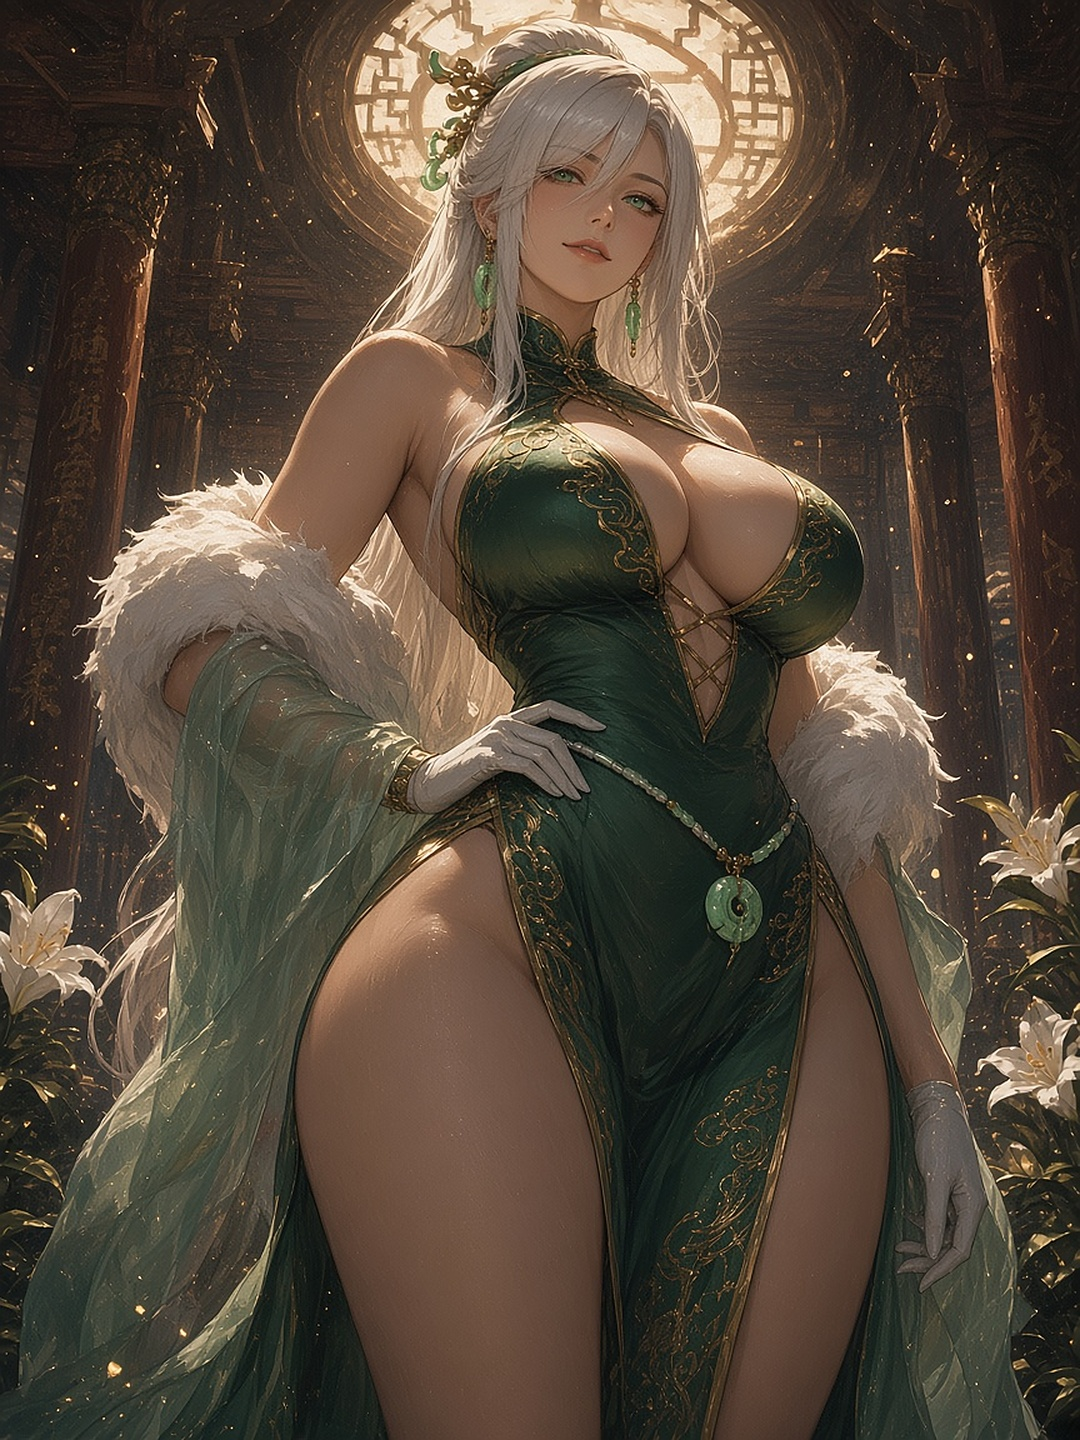
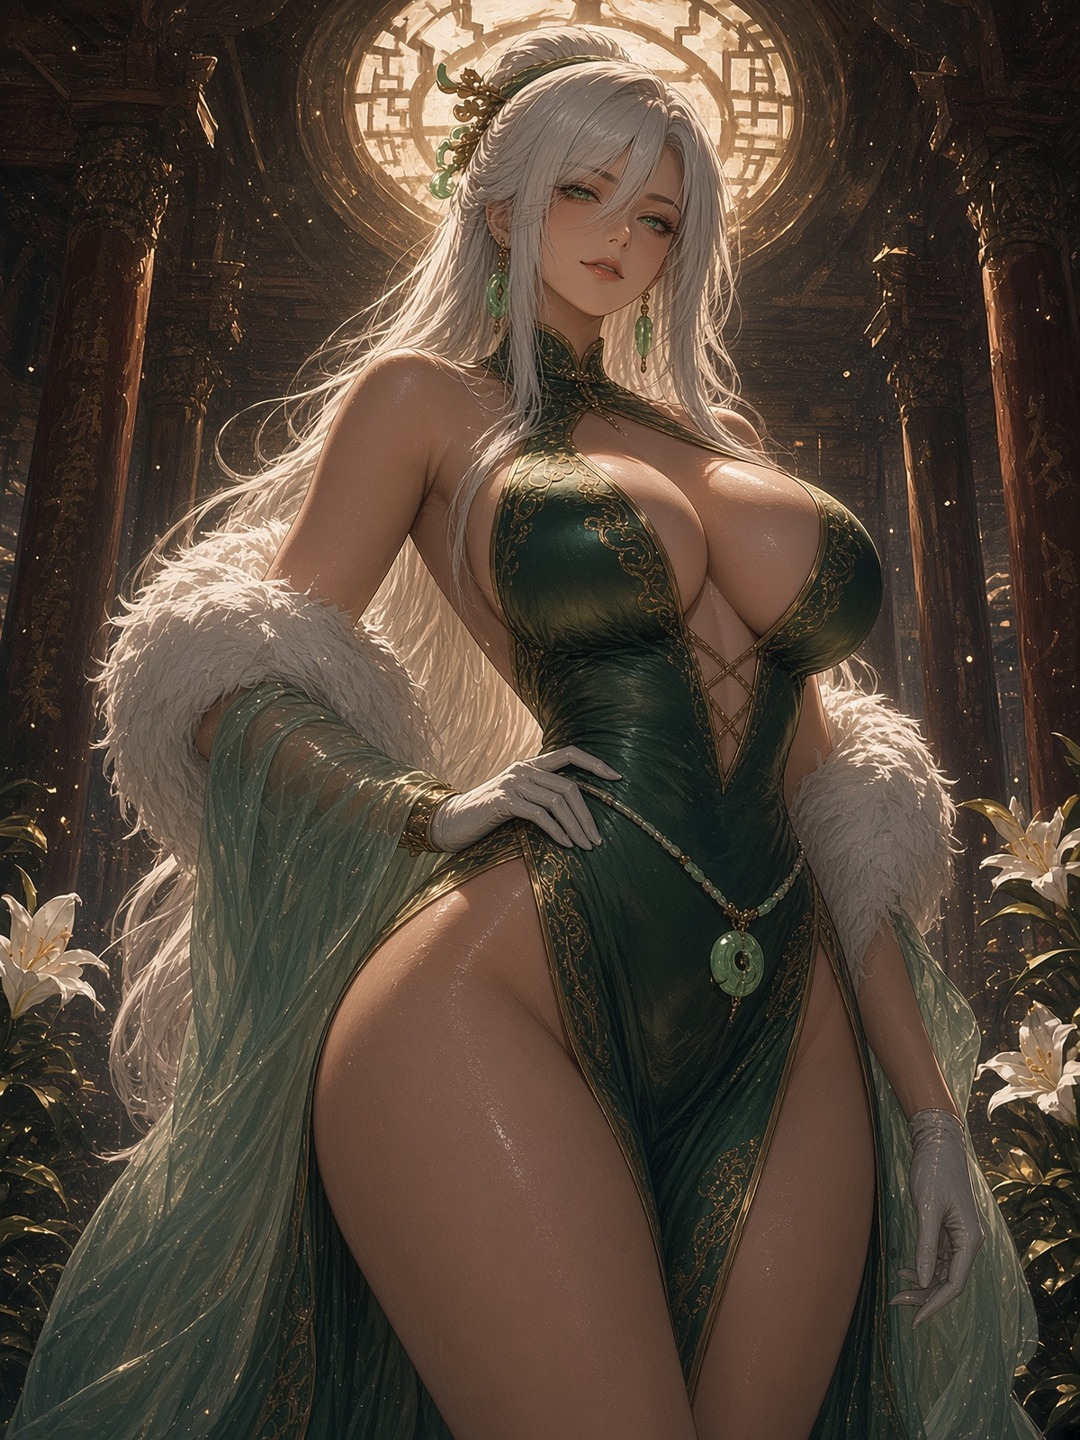
替换霜华玉仙静态立绘与棋子头像
新立绘缩至 1080×1440，头像按脸居中裁切，缓存版本升到 v2。

diff --git a/js/config.js b/js/config.js
@@ -772,11 +772,11 @@
         id: 'shuanghua',
         name: '霜华玉仙',
         quality: 'xian',
-        avatar: 'assets/battle/avatars/shuanghua.webp',
+        avatar: 'assets/battle/avatars/shuanghua.webp?v=2',
         avatarPos: '52% 17%',
         avatarScale: 2.6,
-        img: 'assets/hero_shuanghua_hd.jpg?v=1',
-        poster: 'assets/hero_shuanghua_poster.jpg?v=1',
+        img: 'assets/hero_shuanghua_hd.jpg?v=2',
+        poster: 'assets/hero_shuanghua_poster.jpg?v=2',
         skill: {
           id: 'shuanghua_ningpo',
           name: '霜华凝魄',

diff --git a/index.html b/index.html
@@ -556,7 +556,7 @@
   </div>
 
   <script src="js/no-zoom.js?v=22"></script>
-  <script src="js/config.js?v=50"></script>
+  <script src="js/config.js?v=51"></script>
   <script src="js/equip.js?v=22"></script>
   <script src="js/state.js?v=24"></script>
   <script src="js/titles.js?v=22"></script>
